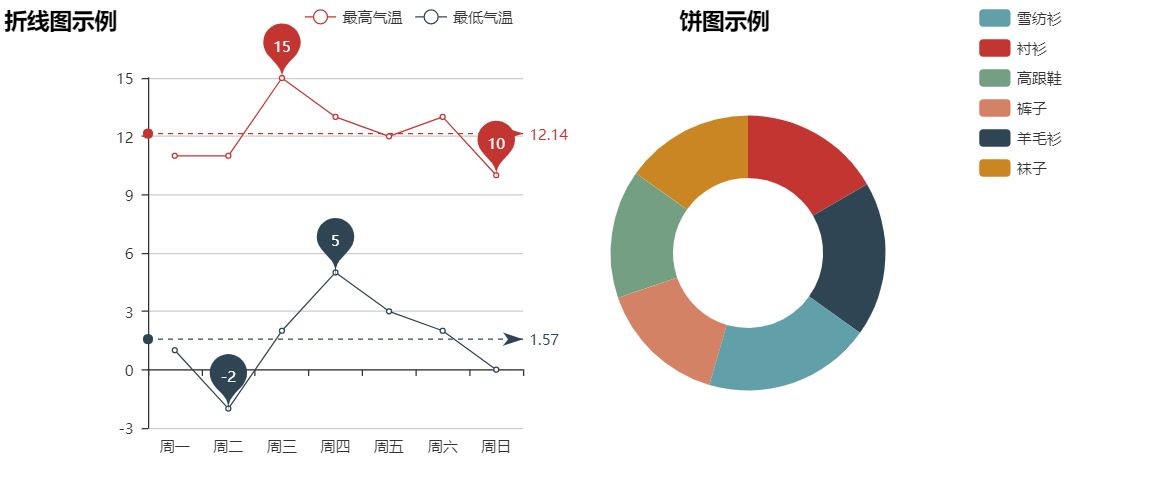
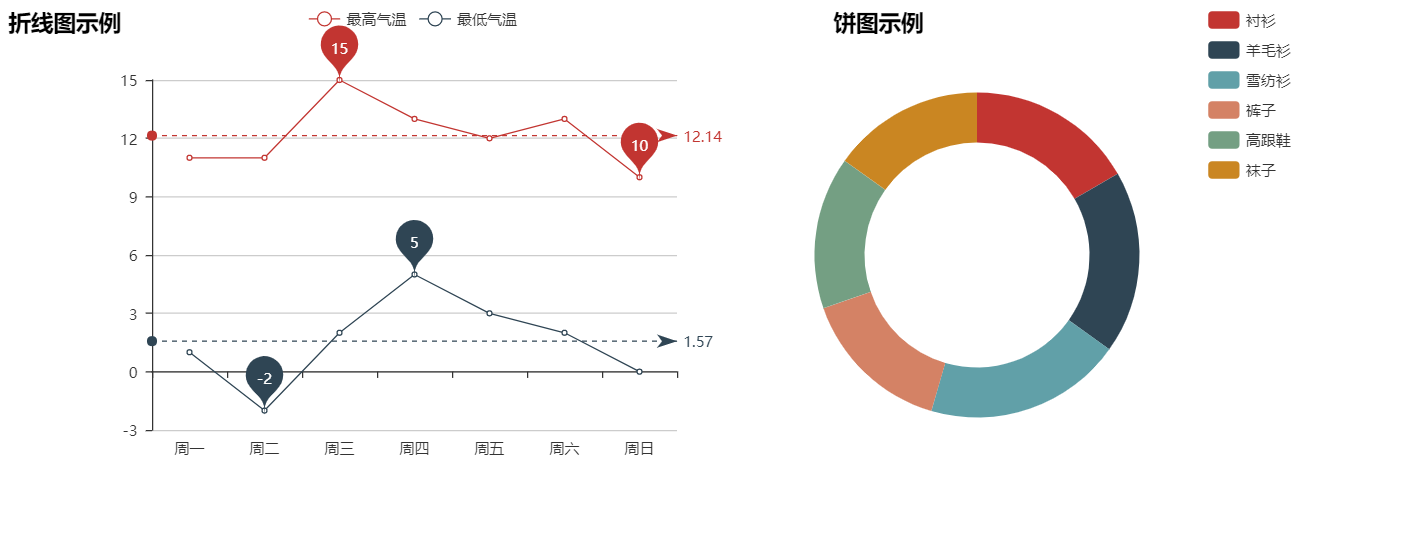
update Grid class documentation

diff --git a/test/test_grid.py b/test/test_grid.py
@@ -82,11 +82,12 @@ def test_grid_3():
              mark_line=["average"], legend_pos="20%")
     attr = ["衬衫", "羊毛衫", "雪纺衫", "裤子", "高跟鞋", "袜子"]
     v1 = [11, 12, 13, 10, 10, 10]
-    pie = Pie("饼图示例", title_pos="45%")
-    pie.add("", attr, v1, radius=[30, 55], legend_pos="65%", legend_orient='vertical')
+    pie = Pie("饼图示例", title_pos="55%")
+    pie.add("", attr, v1, radius=[45, 65], center=[65, 50], legend_pos="80%",
+            legend_orient='vertical')
 
     grid = Grid()
-    grid.add(line, grid_right="65%")
+    grid.add(line, grid_right="55%")
     grid.add(pie, grid_left="60%")
     grid.render()
 

diff --git a/docs/zh-cn/documentation.md b/docs/zh-cn/documentation.md
@@ -2108,16 +2108,18 @@ from pyecharts import Line, Pie, Grid
 
 line = Line("折线图示例", width=1200)
 attr = ['周一', '周二', '周三', '周四', '周五', '周六', '周日']
-line.add("最高气温", attr, [11, 11, 15, 13, 12, 13, 10], mark_point=["max", "min"], mark_line=["average"])
+line.add("最高气温", attr, [11, 11, 15, 13, 12, 13, 10], mark_point=["max", "min"],
+         mark_line=["average"])
 line.add("最低气温", attr, [1, -2, 2, 5, 3, 2, 0], mark_point=["max", "min"],
          mark_line=["average"], legend_pos="20%")
 attr = ["衬衫", "羊毛衫", "雪纺衫", "裤子", "高跟鞋", "袜子"]
 v1 = [11, 12, 13, 10, 10, 10]
-pie = Pie("饼图示例", title_pos="45%")
-pie.add("", attr, v1, radius=[30, 55], legend_pos="65%", legend_orient='vertical')
+pie = Pie("饼图示例", title_pos="55%")
+pie.add("", attr, v1, radius=[45, 65], center=[65, 50], legend_pos="80%",
+        legend_orient='vertical')
 
 grid = Grid()
-grid.add(line, grid_right="65%")
+grid.add(line, grid_right="55%")
 grid.add(pie, grid_left="60%")
 grid.render()
 ```
